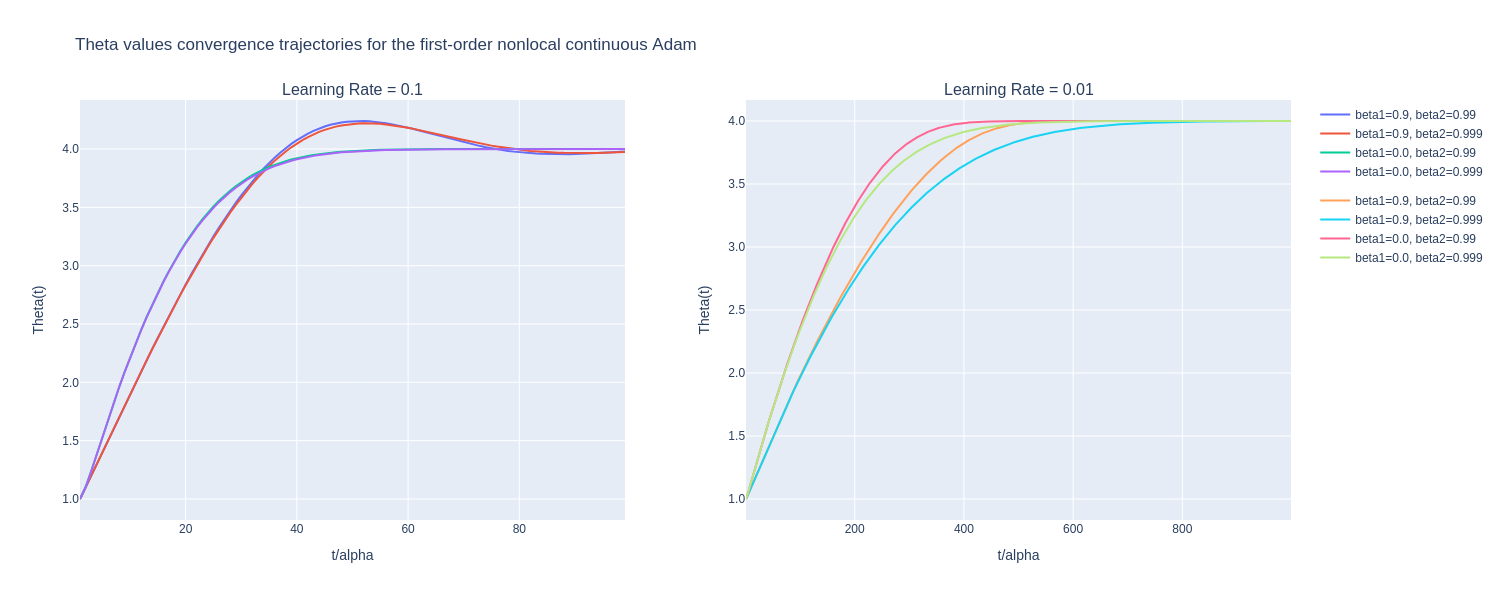
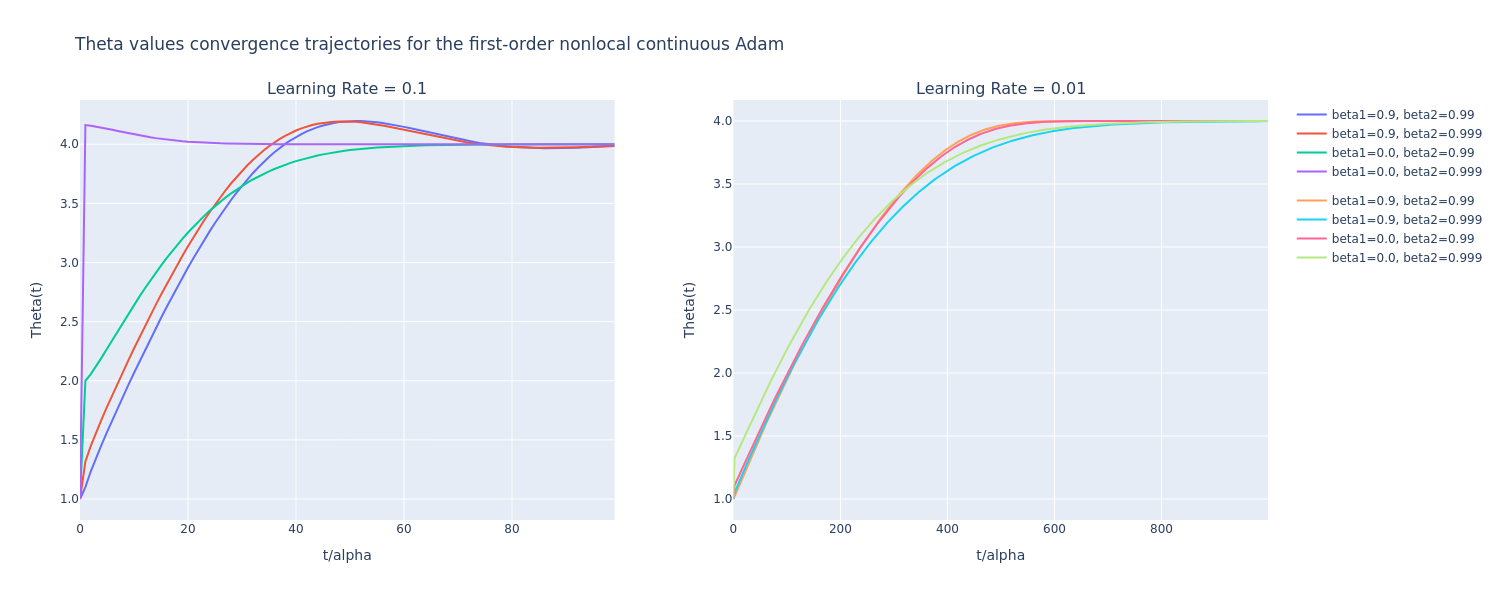
jax_adam_ok

diff --git a/Solver/NonlocalSolver.py b/Solver/NonlocalSolver.py
@@ -7,9 +7,11 @@ from numba import njit
 try:
     import jax
     import jax.numpy as jnp
+    from interpax import interp1d 
 
     device = jax.devices()[0]
     jax.config.update("jax_enable_x64", True)
+    DTYPE = jnp.float64
     
     print(f"[NonlocalSolver] Usando JAX en: {device.device_kind} ({device.platform})")
 except Exception:
@@ -17,8 +19,8 @@ except Exception:
 
 
 class NonlocalSolverMomentumAdam:
-    def __init__(self, f: Callable, dL: Callable, t_span: list, y0: np.array, betas: list,
-                 alpha: float, lambda_:float = 0, verbose: bool = True):
+    def __init__(self, f: Callable, dL: Callable, t_span: list, y0, betas: list,
+                 alpha: float, lambda_:float = 0.0, verbose: bool = True):
         """
         Initializes the solver with the given parameters.
 
@@ -32,22 +34,29 @@ class NonlocalSolverMomentumAdam:
         :param verbose: Boolean controlling the verbosity of messages (optional).
         """
 
-        self.f = f
+        self.y0     = jnp.asarray(y0,    dtype=DTYPE)
+        self.alpha  = jnp.asarray(alpha, dtype=DTYPE)
+        self.lambda_= jnp.asarray(lambda_, dtype=DTYPE)
+        
         self.t_span = t_span
-        self.y0 = jnp.asarray(y0) 
-        self.alpha = alpha
-        self.t = jnp.arange(t_span[0], t_span[1], alpha)
-        self.betas = betas
-        self.lambda_ = lambda_
-        self.f = jax.jit(f) if not hasattr(f, "lower") else f
+        self.t      = jnp.arange(t_span[0], t_span[1], self.alpha, dtype=DTYPE)
+        self.betas  = [DTYPE(b) for b in betas]
+
+        self.f  = jax.jit(f)  if not hasattr(f,  "lower") else f
         self.dL = jax.jit(dL) if not hasattr(dL, "lower") else dL
+
         self.alpha_t = lambda t: jnp.where(t <= 1e-12, 1.0, jnp.sqrt(1 - betas[1] ** (t / alpha)) / (1 - betas[0] ** (t / alpha)))
-        self.epsilon_t = lambda t: jnp.sqrt(1-betas[1]**(t/alpha)) * 1e-8  # Regularization term to avoid division by zero.
+        self.epsilon_t = lambda t: jnp.sqrt(1-betas[1]**(t/alpha)) * DTYPE(1e-8)  # Regularization term to avoid division by zero.
 
         # Smoothing parameters for the solution algorithm.
-        self.smoothing_factor = 0.5
-        self.smoothing_factor_max = 0.9999
-        self.increments = jnp.linspace(self.smoothing_factor, self.smoothing_factor_max, num=int(1e3))
+        self.smoothing_factor     = jnp.asarray(0.5,    dtype=DTYPE)
+        self.smoothing_factor_max = jnp.asarray(0.9999, dtype=DTYPE)
+        self.increments = jnp.linspace(
+            self.smoothing_factor,
+            self.smoothing_factor_max,
+            num=int(1e3),
+            dtype=DTYPE,
+        )
         self.max_value_index = False
 
         # Control parameters for the solution.
@@ -73,25 +82,18 @@ class NonlocalSolverMomentumAdam:
         """
 
         t_values = self.t
-        idxs = jnp.arange(len(t_values))
-        if isinstance(self.y0, (np.ndarray, jnp.ndarray)):
-            y0 = float(self.y0.ravel()[0])
-        else:
-            y0 = float(self.y0)
-        
-        args = (t_values[:-1], idxs[:-1])
-        args = jnp.stack(args, axis=1)
+        idxs   = jnp.arange(len(t_values), dtype=jnp.int32)
+        y0_scalar = jnp.asarray(self.y0, dtype=DTYPE).ravel()[0]
+        args = jnp.stack((t_values[:-1], idxs[:-1]), axis=1)
 
-        def step(y, args):
+        def step(y_prev, args):
             t, idx = args
             idx = jnp.asarray(idx).astype(jnp.int32)
-            y_next = y + self.alpha * rhs_ode(t, y, idx)
+            y_next = y_prev + self.alpha * rhs_ode(t, y_prev, idx)
             return y_next, y_next
 
-        _, y_hist = jax.lax.scan(step, y0, args)
-        y_values = jnp.concatenate([jnp.array([y0]), y_hist])
-       
-        return y_values
+        _, y_hist = jax.lax.scan(step, y0_scalar, args)
+        return jnp.concatenate([jnp.array([y0_scalar], dtype=DTYPE), y_hist])
     
     def __rhs_with_integral_part__(self, y: jnp.ndarray) -> jnp.ndarray:
         """
@@ -101,48 +103,23 @@ class NonlocalSolverMomentumAdam:
         :return: Solution with the integral term applied.
         """
 
-        def interp_jax(x, xp, fp):
-            idx = jnp.clip(jnp.searchsorted(xp, x) - 1, 0, len(xp) - 2)
-            x0 = xp[idx]
-            x1 = xp[idx + 1]
-            y0 = fp[idx]
-            y1 = fp[idx + 1]
-
-            # Estimamos derivadas m0, m1 (centradas)
-            def grad(i):
-                i0 = jnp.clip(i - 1, 0, len(fp) - 1)
-                i1 = jnp.clip(i + 1, 0, len(fp) - 1)
-                return (fp[i1] - fp[i0]) / (xp[i1] - xp[i0])
-
-            m0 = grad(idx)
-            m1 = grad(idx + 1)
-
-            h = x1 - x0
-            t = (x - x0) / h
-            h00 = 2 * t**3 - 3 * t**2 + 1
-            h10 = t**3 - 2 * t**2 + t
-            h01 = -2 * t**3 + 3 * t**2
-            h11 = t**3 - t**2
-
-            return h00 * y0 + h10 * h * m0 + h01 * y1 + h11 * h * m1
-                    
-        y_interp = lambda t: interp_jax(t, self.t, y)
+        @jax.jit
+        def y_interp(t):
+            return interp1d(t, self.t, y, method="cubic")
 
         @jax.jit
-        def causal_convolution(g_vals, t_grid, beta):
-            def kernel_fn(s):
-                return (1 - beta) / self.alpha * jnp.exp(-((1 - beta) / self.alpha) * s)
-            dt_mat = jnp.subtract.outer(t_grid, t_grid)
-            mask = dt_mat >= 0
-            kernel_mat = jnp.where(mask, kernel_fn(dt_mat), 0.0)
-            conv = jnp.dot(kernel_mat, g_vals) * self.alpha
-            return conv
+        def ema(g_vals, beta):
+            def step(prev, g):
+                new = beta * prev + (DTYPE(1.0) - beta) * g
+                return new, new
+            _, out = jax.lax.scan(step, DTYPE(0.0), g_vals)
+            return out
         
-        m_vals = jax.vmap(lambda t: self.dL(y_interp(t)) + 0.5 * self.lambda_ * y_interp(t))(self.t)
-        v_vals = jax.vmap(lambda t: (self.dL(y_interp(t)) + 0.5 * self.lambda_ * y_interp(t))**2)(self.t)
+        m_vals = jax.vmap(lambda t: self.dL(y_interp(t)) + DTYPE(0.5) * self.lambda_ * y_interp(t))(self.t)
+        v_vals = jax.vmap(lambda t: (self.dL(y_interp(t)) + DTYPE(0.5) * self.lambda_ * y_interp(t))**2)(self.t)
 
-        m_conv = causal_convolution(m_vals, self.t, self.betas[0])  # beta1 para m
-        v_conv = causal_convolution(v_vals, self.t, self.betas[1])  # beta2 para v
+        m_conv = ema(m_vals, self.betas[0])  # beta1 para m
+        v_conv = ema(v_vals, self.betas[1])  # beta2 para v
         v_sqrt = jnp.sqrt(v_conv)
         epsilons = jax.vmap(self.epsilon_t)(self.t)
         alphas = jax.vmap(self.alpha_t)(self.t)
@@ -150,12 +127,10 @@ class NonlocalSolverMomentumAdam:
         self.m_conv = m_conv
         self.v_sqrt = v_sqrt
 
+        @jax.jit
         def rhs(t, y, idx):
             denom = v_sqrt[idx] + epsilons[idx]
-            y_interp_val = y_interp(t)
-            f_val = self.f(t, y_interp_val)
-            result = f_val - alphas[idx] * (m_conv[idx] / denom)
-            return result
+            return self.f(t, y_interp(t)) - alphas[idx] * (m_conv[idx] / denom)
  
         return self.__solve_ode__(rhs)
         
@@ -182,7 +157,7 @@ class NonlocalSolverMomentumAdam:
         :param y_guess: New estimate of y.
         :return: New value of y.
         """
-        return (smoothing_factor * y_current) + ((1.0 - smoothing_factor) * y_guess)            
+        return (smoothing_factor * y_current) + ((DTYPE(1.0) - smoothing_factor) * y_guess)            
         
     def solve(self):
         """
@@ -191,13 +166,14 @@ class NonlocalSolverMomentumAdam:
         :return: Tuple with time values and the corresponding solutions.
         """
         self.iteration = 0
-        self.m_conv_history = []
-        self.v_sqrt_history = []
+        self.m_conv_history, self.v_sqrt_history = [], []
 
         y_current = self.__initial_solution__()
         y_guess = self.__rhs_with_integral_part__(y_current)
+
         self.m_conv_history.append(list(zip(self.t, self.m_conv)))
         self.v_sqrt_history.append(list(zip(self.t, self.v_sqrt)))
+
         current_error = self.__global_error__(y_current, y_guess)
 
         if self.verbose:
@@ -215,8 +191,10 @@ class NonlocalSolverMomentumAdam:
             
             y_new = self.__next_y__(self.smoothing_factor, y_current, y_guess)
             y_guess = self.__rhs_with_integral_part__(y_new)
+
             self.m_conv_history.append(list(zip(self.t, self.m_conv)))
             self.v_sqrt_history.append(list(zip(self.t, self.v_sqrt)))
+            
             current_error = self.__global_error__(y_new, y_guess)
 
             y_current = y_new
